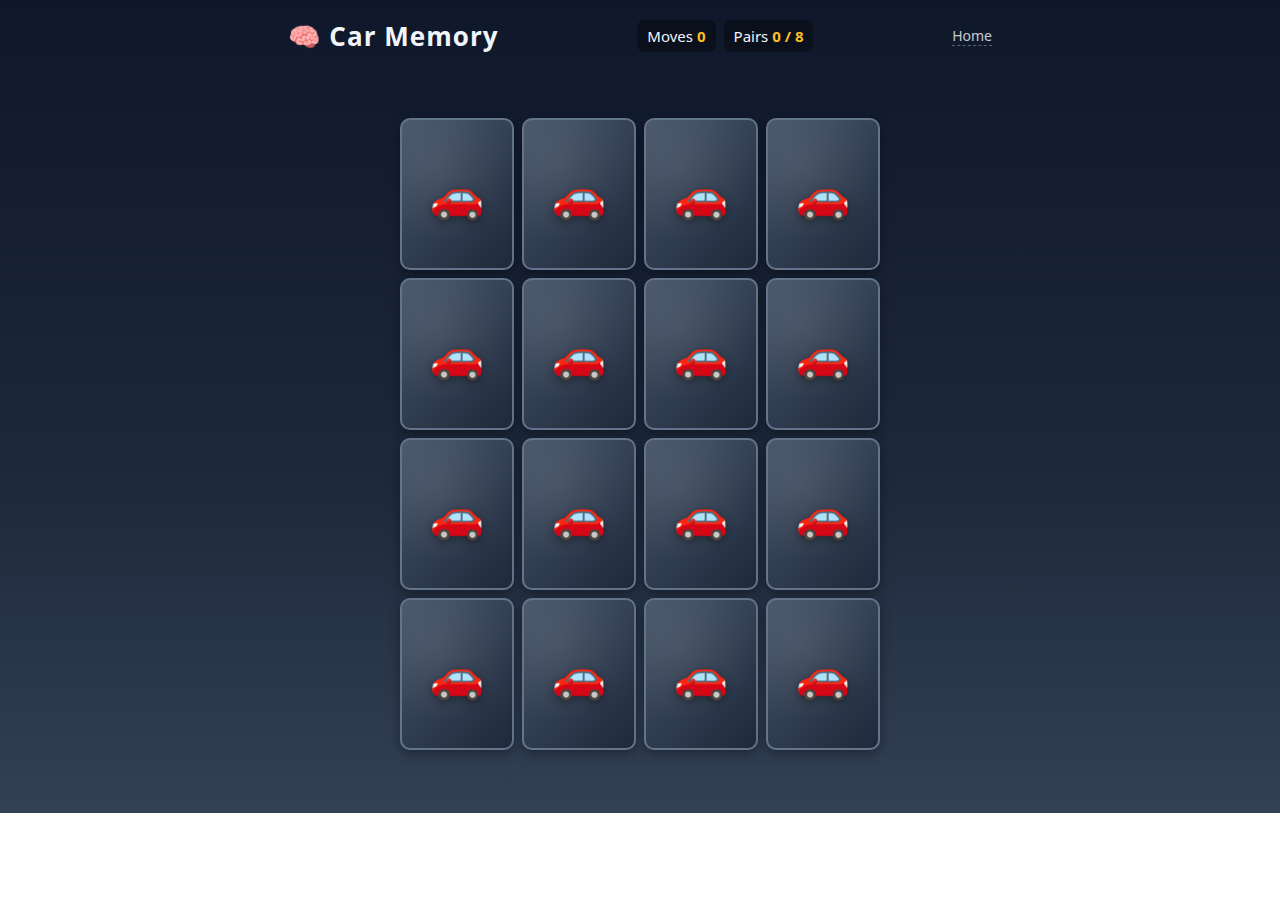
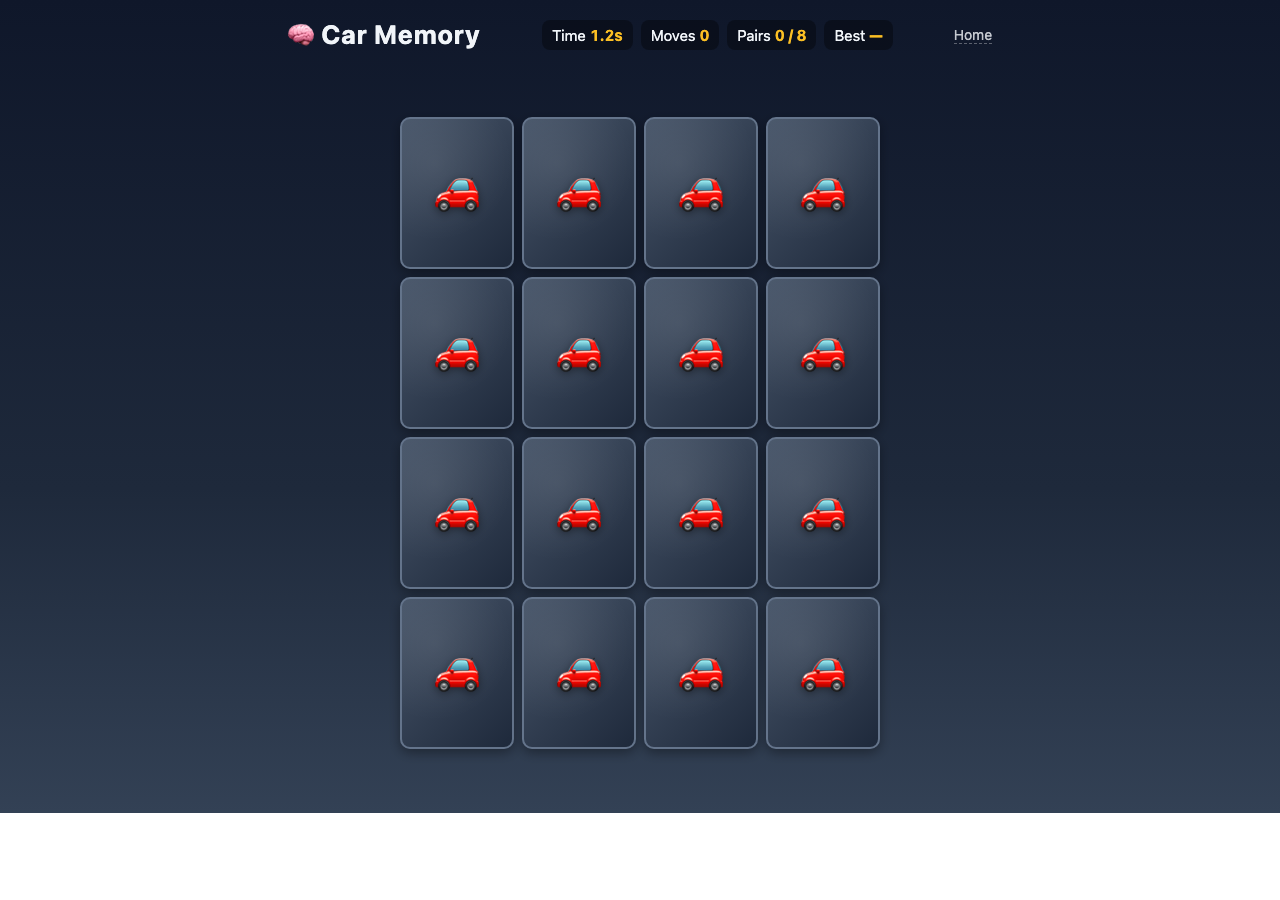
docs(readme): screenshots for all games + rule refresh
Add the three missing previews (Memory Match, Guess Who, Tangram
Puzzles) so every game in the catalog table has a thumbnail. Embed
the Dragon screenshot in its section. Re-shoot the Car Memory
screenshot now that the header carries the new live Time/Best pills.

Refresh rules text from source-of-truth scans:
- Car Memory: mention the 3-second peek countdown, the live header
  stats (Time / Moves / Pairs / Best with player name), and
  tap-to-skip during the peek.
- Dragon: replace vague bullets with the concrete numbers (5 speed
  presets, 3 cheese sizes, 50pt/level, 10ms speed-up, 50ms floor).
- Guess Who: include the question topics that were missing
  (capes, stripes, scarves, star badges) and mention the 12 yes/no
  questions explicitly.

Type2Build, Zoomy Cars, Child Feeder, Memory Match, and Tangram rule
descriptions verified against source and left as-is.

diff --git a/README.md b/README.md
@@ -17,9 +17,9 @@ The home page ([`index.html`](./index.html)) is a catalog with thumbnails linkin
 | [Child Feeder](#child-feeder) | <img src="docs/screenshots/child-feeder.png" width="240" alt="Child Feeder preview" /> | [`games/child-feeder.html`](./games/child-feeder.html) | 2D · SVG |
 | [Dragon Eating Cheese](#dragon-eating-cheese) | <img src="docs/screenshots/dragon.png" width="240" alt="Dragon Eating Cheese preview" /> | [`games/dragon.html`](./games/dragon.html) | 2D · Canvas |
 | [Car Memory](#car-memory) | <img src="docs/screenshots/car-memory.png" width="240" alt="Car Memory preview" /> | [`games/car-memory.html`](./games/car-memory.html) | 2D · CSS |
-| [Memory Match Cards](#memory-match-cards) | Catalog card | [`games/memory-match.html`](./games/memory-match.html) | 2D · CSS |
-| [Guess Who Detective](#guess-who-detective) | Catalog card | [`games/guess-who.html`](./games/guess-who.html) | 2D · CSS |
-| [Tangram Puzzles](#tangram-puzzles) | Catalog card | [`games/tangram-puzzles.html`](./games/tangram-puzzles.html) | 2D · SVG |
+| [Memory Match Cards](#memory-match-cards) | <img src="docs/screenshots/memory-match.png" width="240" alt="Memory Match preview" /> | [`games/memory-match.html`](./games/memory-match.html) | 2D · CSS |
+| [Guess Who Detective](#guess-who-detective) | <img src="docs/screenshots/guess-who.png" width="240" alt="Guess Who Detective preview" /> | [`games/guess-who.html`](./games/guess-who.html) | 2D · CSS |
+| [Tangram Puzzles](#tangram-puzzles) | <img src="docs/screenshots/tangram-puzzles.png" width="240" alt="Tangram Puzzles preview" /> | [`games/tangram-puzzles.html`](./games/tangram-puzzles.html) | 2D · SVG |
 
 ---
 
@@ -88,14 +88,16 @@ Raise a cartoon child from age 1 to 18. Pick foods (healthy or junk), pick activ
 
 ### Dragon Eating Cheese
 
+![Dragon Eating Cheese — snake-style dragon hunting cheese on the play arena](docs/screenshots/dragon.png)
+
 Steer a hungry dragon snake around the arena to gobble cheese wedges, collect bonus stars, level up, and avoid crashing into walls or yourself.
 
 **Controls:** arrow keys / WASD on desktop, on-screen controls on touch devices.
 
 **Highlights**
-- Speed and cheese-size settings
-- Score and level progression
-- Bonus star food and glow effects
+- 5 speed presets (slowest → fastest) and 3 cheese sizes (small / medium / big)
+- Level up every 50 points; each level shaves 10ms off the tick speed (down to a 50ms floor)
+- Bonus star food appears with a timed glow — grab it for extra points
 - Game-over animation and local high scores
 
 ▶ [Open `games/dragon.html`](./games/dragon.html)
@@ -104,23 +106,27 @@ Steer a hungry dragon snake around the arena to gobble cheese wedges, collect bo
 
 ### Car Memory
 
-![Car Memory — 16 face-down cards in a 4×4 grid](docs/screenshots/car-memory.png)
+![Car Memory — header showing live Time, Moves, Pairs, and Best score above a 4×4 grid](docs/screenshots/car-memory.png)
 
-A classic memory match game with 8 unique car-brand pairs (16 cards). Tap a card to flip it; flip a second card and if the brands match, both lock with a green ✓ in the top-right corner. If not, they flip back. Find all 8 pairs to win.
+Memorize first, then match. Every round opens with a 3-second peek that reveals all 16 cards before flipping them face-down. Tap two cards: if the brands match, both lock with a green ✓ — if not, they shake and flip back. Find all 8 pairs to win.
 
-**Controls:** mouse / touch — tap any face-down card to reveal.
+**Controls:** mouse / touch — tap any face-down card to reveal. Tap anywhere during the peek to skip the countdown and start immediately.
 
 **Highlights**
 - 8 themed pairs: Ferrari, Tesla, Porsche, Lamborghini, BMW, Mercedes, Toyota, Ford
 - Each card shows brand, logo, and 3 features on a brand-colored face
-- 3D card-flip animation, shake on a wrong pair
-- Tracks moves and time; end screen with stats + "Play Again"
+- 3-second peek countdown at the start of every round
+- Live header stats: **Time**, **Moves**, **Pairs**, and **Best** score (with player name)
+- Snappy 3D card-flip animation; cards shake on a wrong pair
+- End screen with time, moves, score, and "Play Again"
 
 ▶ [Open `games/car-memory.html`](./games/car-memory.html)
 
 ---
 
 ### Memory Match Cards
+
+![Memory Match — 4×4 grid of face-down cards with imaginative themes](docs/screenshots/memory-match.png)
 
 A playful 4x4 memory game with 8 creative idea pairs. Flip two cards, remember where each one hides, and match dragons, rockets, robots, castles, music, puzzles, paint, and stars.
 
@@ -138,14 +144,17 @@ A playful 4x4 memory game with 8 creative idea pairs. Flip two cards, remember w
 
 ### Guess Who Detective
 
-A single-player deduction game inspired by yes/no mystery guessing. The game secretly picks one friend; ask questions about hats, glasses, pets, hair, shirts, and badges to eliminate suspects before making a final guess.
+![Guess Who Detective — 12 cartoon suspects beside a yes/no question list](docs/screenshots/guess-who.png)
+
+A single-player deduction game inspired by yes/no mystery guessing. The game secretly picks one friend; ask yes/no questions about hats, glasses, capes, stripes, scarves, star badges, pets, hair color, and shirt color to narrow down the suspects before making your final guess.
 
 **Controls:** mouse / touch — tap question buttons, then tap a remaining suspect to guess.
 
 **Highlights**
 - 12 cartoon suspects with visible traits
-- Yes/no question buttons automatically cross out impossible suspects
-- Tracks questions, guesses, and remaining possibilities
+- 12 yes/no questions covering accessories, clothing, hair, and pets
+- Each "yes" or "no" automatically crosses out impossible suspects
+- Tracks questions asked, guesses made, and remaining possibilities
 - Encourages logic, observation, and careful elimination
 
 ▶ [Open `games/guess-who.html`](./games/guess-who.html)
@@ -153,6 +162,8 @@ A single-player deduction game inspired by yes/no mystery guessing. The game sec
 ---
 
 ### Tangram Puzzles
+
+![Tangram Puzzles — Little House outline with seven colored pieces](docs/screenshots/tangram-puzzles.png)
 
 Drag, rotate, and snap seven geometric pieces onto dotted outlines to complete kid-friendly tangram puzzles.
 
